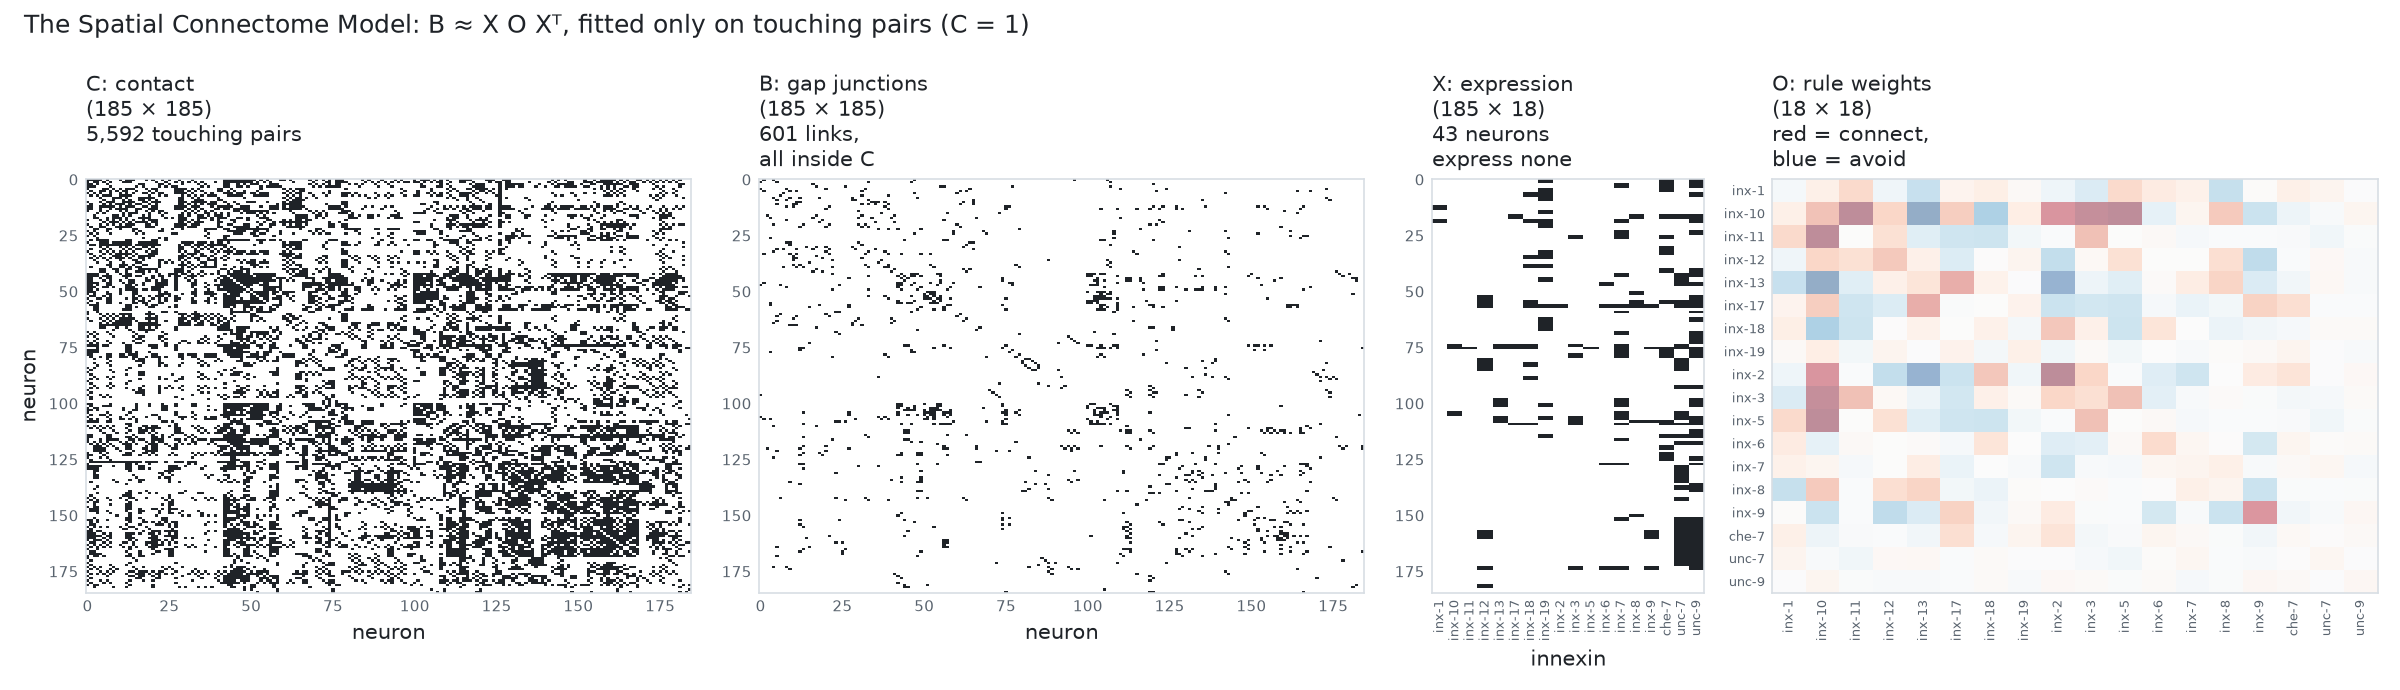
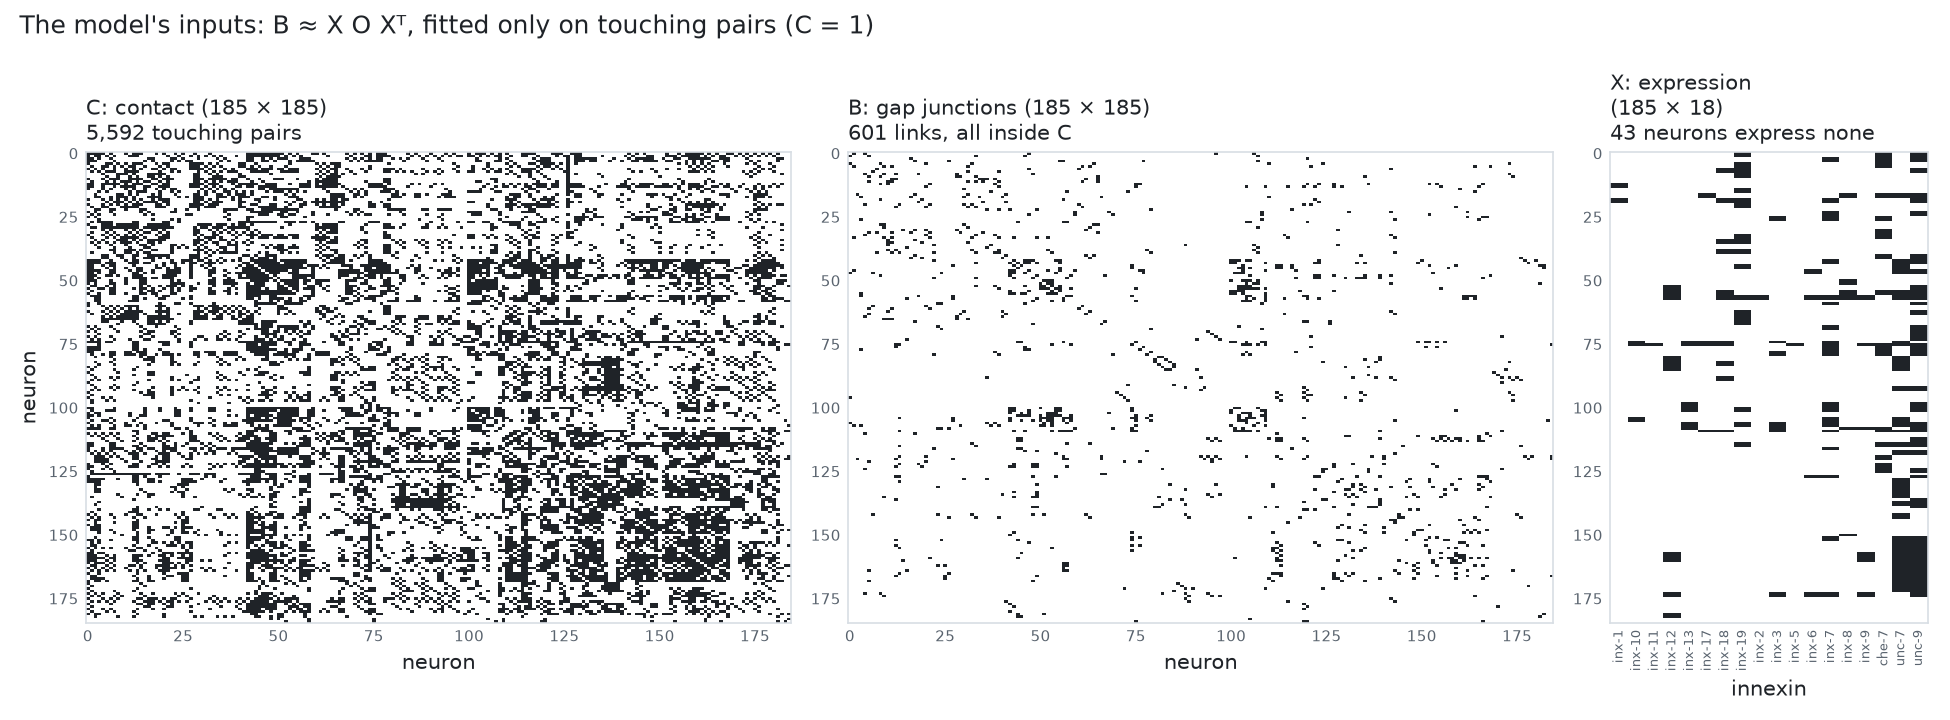
Add paper-style z-score table of O and figure reading notes
The supplementary page gets an SI Fig. S3-style z-score table (bold =
the 19 significant rules, judged on unrounded values) and notes on how
to read the rule network and the eigenvalue plot. The input-matrix
figure now shows only C, B and X.

diff --git a/src/plot_supplementary.py b/src/plot_supplementary.py
@@ -1,4 +1,4 @@
-"""Explanatory figures for supplementary/: the model's matrices, the significant rule network, and Cook vs Varshney.
+"""Explanatory figures for supplementary/: the input matrices, the z-scores of O, the rule network, and Cook vs Varshney.
 
 Usage (from the repository root): python src/plot_supplementary.py
 Needs the SCM runs in results/authors_inputs (Cook) and results/varshney (alpha 0.12).
@@ -8,9 +8,9 @@ import numpy as np
 import matplotlib
 matplotlib.use("Agg")
 import matplotlib.pyplot as plt
-from matplotlib.colors import ListedColormap, TwoSlopeNorm
+from matplotlib.colors import ListedColormap
 from matplotlib.lines import Line2D
-from plot_si_figures import GENES, PALE_RDBU, INK, MUTED, GRID, NEG, style
+from plot_si_figures import GENES, INK, MUTED, GRID, NEG, style, table_heatmap
 from scm import load
 
 REF = "data/reference_authors"
@@ -22,17 +22,16 @@ LABEL_OFFSET = {"inx-13/inx-13": (-7, 3), "unc-9/unc-9": (-6, 8), "inx-19/inx-19
                 "inx-10/inx-2": (-7, 4), "inx-18/inx-6": (6, 6), "inx-12/inx-8": (6, -9)}
 
 
-def matrices(C, B, X, O):
-    """The four objects of B = X O X^T on the 185 anterior neurons (Cook data)."""
-    fig, axes = plt.subplots(1, 4, figsize=(16, 4.6), gridspec_kw={"width_ratios": [1, 1, 0.45, 1]})
+def matrices(C, B, X):
+    """The three inputs of B = X O X^T on the 185 anterior neurons (Cook data)."""
+    fig, axes = plt.subplots(1, 3, figsize=(13, 4.8), gridspec_kw={"width_ratios": [1, 1, 0.45]})
     panels = [
-        (C, BINARY, None, "C: contact\n(185 × 185)", f"{int(np.triu(C).sum()):,} touching pairs\n"),
-        (B, BINARY, None, "B: gap junctions\n(185 × 185)", f"{int(np.triu(B).sum())} links,\nall inside C"),
-        (X, BINARY, None, "X: expression\n(185 × 18)", f"{int((X.sum(1) == 0).sum())} neurons\nexpress none"),
-        (O, PALE_RDBU, TwoSlopeNorm(0, -0.8, 0.8), "O: rule weights\n(18 × 18)", "red = connect,\nblue = avoid"),
+        (C, "C: contact (185 × 185)", f"{int(np.triu(C).sum()):,} touching pairs"),
+        (B, "B: gap junctions (185 × 185)", f"{int(np.triu(B).sum())} links, all inside C"),
+        (X, "X: expression\n(185 × 18)", f"{int((X.sum(1) == 0).sum())} neurons express none"),
     ]
-    for ax, (M, cmap, norm, title, sub) in zip(axes, panels):
-        ax.imshow(M, cmap=cmap, norm=norm, aspect="auto", interpolation="nearest")
+    for ax, (M, title, sub) in zip(axes, panels):
+        ax.imshow(M, cmap=BINARY, aspect="auto", interpolation="nearest")
         ax.set_title(f"{title}\n{sub}", fontsize=10, color=INK, loc="left")
         ax.tick_params(length=0, labelsize=7, labelcolor=MUTED)
         for s in ax.spines.values():
@@ -42,12 +41,26 @@ def matrices(C, B, X, O):
         ax.set_xlabel("neuron", color=INK)
     axes[2].set_xticks(range(18), GENES, rotation=90, fontsize=6)
     axes[2].set_xlabel("innexin", color=INK)
-    axes[3].set_xticks(range(18), GENES, rotation=90, fontsize=6)
-    axes[3].set_yticks(range(18), GENES, fontsize=6)
-    fig.suptitle("The Spatial Connectome Model: B ≈ X O Xᵀ, fitted only on touching pairs (C = 1)",
+    fig.suptitle("The model's inputs: B ≈ X O Xᵀ, fitted only on touching pairs (C = 1)",
                  fontsize=12, color=INK, x=0.01, ha="left")
     fig.tight_layout()
     fig.savefig(f"{OUT}/model_matrices.png", dpi=150)
+    plt.close(fig)
+
+
+def o_zscores(Z):
+    """The output: z-score of every rule, as in the bottom table of SI Fig. S3. Bold = significant (z >= 2)."""
+    fig, ax = plt.subplots(figsize=(9, 8))
+    table_heatmap(ax, Z, ".1f", "", nan_text="-")
+    for k, t in enumerate(ax.texts):  # one label per cell, row by row
+        t.set_fontsize(8)
+        if Z.flat[k] >= 2:  # unrounded: a few cells print as 2.0 but are 1.96-1.99
+            t.set_fontweight("bold")
+    ax.set_title("z-scores of the rule matrix O (Cook data, α = 0.215)\n"
+                 "red = connect more than chance, blue = less; bold = significant (z ≥ 2); "
+                 "- = undefined (inx-5/inx-11 duplicate)", fontsize=10, color=INK, loc="left", pad=48)
+    fig.tight_layout()
+    fig.savefig(f"{OUT}/o_zscores.png", dpi=150)
     plt.close(fig)
 
 
@@ -117,9 +130,10 @@ def main():
     os.makedirs(OUT, exist_ok=True)
     C, X = load(f"{REF}/ContactSubgraphMatrix.csv", int), load(f"{REF}/INXExpressionJustContact.csv", int)
     B = load(f"{REF}/GapJunctContact.csv", int)
-    O = load("results/authors_inputs/rule_matrix_0.2150.csv")
+
     Zc, Zv = load("results/authors_inputs/zscores_0.2150.csv"), load("results/varshney/zscores_0.1200.csv")
-    matrices(C, B, X, O)
+    matrices(C, B, X)
+    o_zscores(Zc)
     rule_network(Zc, Zv)
     cook_vs_varshney(Zc, Zv)
 

diff --git a/supplementary/README.md b/supplementary/README.md
@@ -12,21 +12,64 @@ connectome and gene expression, the model recovers the rules.
 
 ## Graphics
 
-![The four matrices of the model](figures/model_matrices.png)
+![The three input matrices of the model](figures/model_matrices.png)
 
-**The model's matrices (Cook data).** C says which of the 185 neurons touch, B which pairs share a gap junction (every
-gap junction is inside C), X which of the 18 innexins each neuron expresses, and O is the result: one weight per pair of
-genes.
+**The model's inputs (Cook data).** C says which of the 185 neurons touch, B which pairs share a gap junction (every
+gap junction is inside C), and X which of the 18 innexins each neuron expresses. Black = 1.
+
+<img src="figures/o_zscores.png" width="720" alt="z-scores of the rule matrix O">
+
+**The output: z-scores of O (as in SI Fig. S3).** One cell per pair of genes; the table is symmetric, so each rule
+appears twice (row *a*, column *b* and row *b*, column *a*). Red cells connect more than chance, blue cells less. The 19
+bold cells in the upper half are the significant rules (z ≥ 2). Some cells print as 2.0 but are 1.96-1.99 and are not
+bold. The four "-" cells are undefined: inx-5 and inx-11 are expressed only in DVC, so rules among them have no variance.
 
 <img src="figures/rule_network.png" width="520" alt="Network of the 19 significant rules">
 
-**The 19 significant rules.** Each line joins two genes whose rule has z ≥ 2; a ring marks a same-gene rule. Blue
-rules are also significant in the independent Varshney connectome.
+**The 19 significant rules as a network.** This draws the bold cells of the table above. Each gene is a dot on the
+circle, and each significant rule is a line between its two genes (heterotypic, e.g. inx-9/inx-17) or a ring around
+one gene (homotypic, e.g. inx-12/inx-12: neurons expressing inx-12 tend to connect to other neurons expressing
+inx-12). Blue rules are also significant in the independent Varshney connectome (12); gray ones only in Cook (7).
+- **Same-gene rules dominate the reproducible set:** 7 of the 12 blue rules are rings (inx-3, -7, -9, -12, -13, -19,
+  unc-9), consistent with hemichannels of the same innexin docking with each other.
+- **inx-10 is a hub:** it has rules with inx-2, inx-3, inx-5 and inx-11, but only inx-2/inx-10 holds up in Varshney.
+- **unc-7 has no significant rule** although it is expressed in 65 neurons; common genes are hard to tell apart from
+  chance.
+- **Lines are only positive rules.** Significant negative rules (e.g. inx-9/inx-12, z = -3.8: neurons expressing these
+  avoid connecting) are in the table but not drawn.
 
 <img src="figures/cook_vs_varshney.png" width="560" alt="z-scores in Cook versus Varshney">
 
 **Robustness.** Each dot is one of the 171 gene pairs. The z-scores agree between the two connectomes (r = 0.83), and
 12 rules are significant in both.
+
+### Reading the eigenvalue plot (SI Fig. S5)
+
+<img src="../results/figures/figS5_eigenvalues.png" width="480" alt="Eigenvalues of O">
+
+O is an 18 × 18 symmetric matrix, so it has 18 real eigenvalues. Each one belongs to an eigenvector v, a weighting of
+the 18 genes, and O can be rebuilt from them: O = Σ λ v vᵀ. Each eigenvector gives every neuron a score, s = X v, from
+the genes it expresses, and that eigenvector's contribution to the predicted connection between neurons *i* and *j* is
+λ s<sub>i</sub> s<sub>j</sub>.
+
+- **Axes.** x is the eigenvalue. y is its rank: the 18 eigenvalues are sorted from smallest to largest, so the point at
+  y = 5 is the 5th smallest. Read it like a cumulative count: the y value where the points cross x = 0 is the number of
+  negative eigenvalues.
+- **Positive eigenvalue: "similar neurons connect".** λ > 0 rewards pairs whose scores have the same sign, so neurons
+  with similar expression along v are predicted to connect.
+- **Negative eigenvalue: "complementary neurons connect".** λ < 0 rewards pairs with opposite signs: neurons expressing
+  one group of genes connect to neurons expressing a different group, and avoid their own kind.
+- **Why the negatives matter.** If every eigenvalue were positive, all wiring could be explained by similarity of
+  expression. Cook's O has 7 negative eigenvalues (the paper says at least 4), and the most negative, -1.68, is close in size
+to the largest positive ones (1.75 and 2.73), so
+  complementarity is a real part of the rules, not noise. This is the paper's point that neurons often connect to
+  neurons that express different innexins.
+- **Size matters more than count.** Eigenvalues near 0 (the middle of the curve) contribute almost nothing; one is
+  exactly 0 because the inx-5 and inx-11 rows of O are identical.
+- **Three series.** "full" uses all of O; "sig." keeps only entries with |z| ≥ 2; "sig. pos." only entries with z ≥ 2
+  (the 19 rules). Negative eigenvalues remain even in "sig. pos.", so they are not produced by the negative entries of
+  O: a set of only positive rules between different genes is already complementary. One "sig." point differs from the
+  SI (see [`results/README.md`](../results/README.md)).
 
 ## Procedure
 
